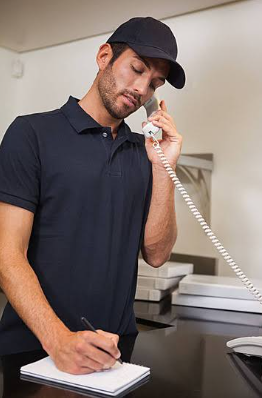
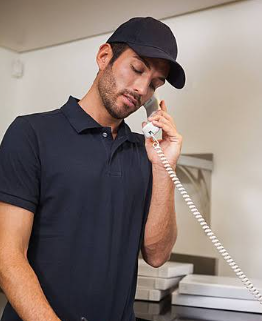
Shopper photographs recropped, focal anchoring for gain cards

diff --git a/components/Photo.tsx b/components/Photo.tsx
@@ -15,6 +15,7 @@ export function Photo({
   sizes = "(min-width: 1024px) 33vw, 100vw",
   priority = false,
   fit = "cover",
+  position = "center",
 }: {
   src: string | null;
   alt: string;
@@ -29,6 +30,12 @@ export function Photo({
    * a certificate needs, since cropping one destroys it.
    */
   fit?: "cover" | "contain";
+  /**
+   * Which part of a cropped photograph to keep. A portrait shot of a person
+   * in a landscape frame loses the face if cropped from the centre, so
+   * anchor it to the top.
+   */
+  position?: "center" | "top" | "bottom";
 }) {
   if (!src) {
     return (
@@ -63,7 +70,17 @@ export function Photo({
         fill
         sizes={sizes}
         priority={priority}
-        className={fit === "contain" ? "object-contain p-2" : "object-cover"}
+        className={
+          fit === "contain"
+            ? "object-contain p-2"
+            : `object-cover ${
+                position === "top"
+                  ? "object-top"
+                  : position === "bottom"
+                    ? "object-bottom"
+                    : "object-center"
+              }`
+        }
       />
     </div>
   );

diff --git a/components/AudienceLanding.tsx b/components/AudienceLanding.tsx
@@ -13,6 +13,14 @@ const STEP_PHOTOS = ["discover", "connect", "trade", "deliver"];
  * suppliers get their own photo slugs, since the two audiences want to see
  * different things.
  */
+/**
+ * Photographs that crop badly from the centre, anchored to keep what
+ * matters. Add a slug here if a picture loses a face or its subject.
+ */
+const FOCUS: Record<string, "top" | "bottom"> = {
+  "gain-shopper-2": "top",
+  "gain-shopper-5": "top",
+};
 const GAIN_ICONS: IconName[] = [
   "verified",
   "trade-support",
